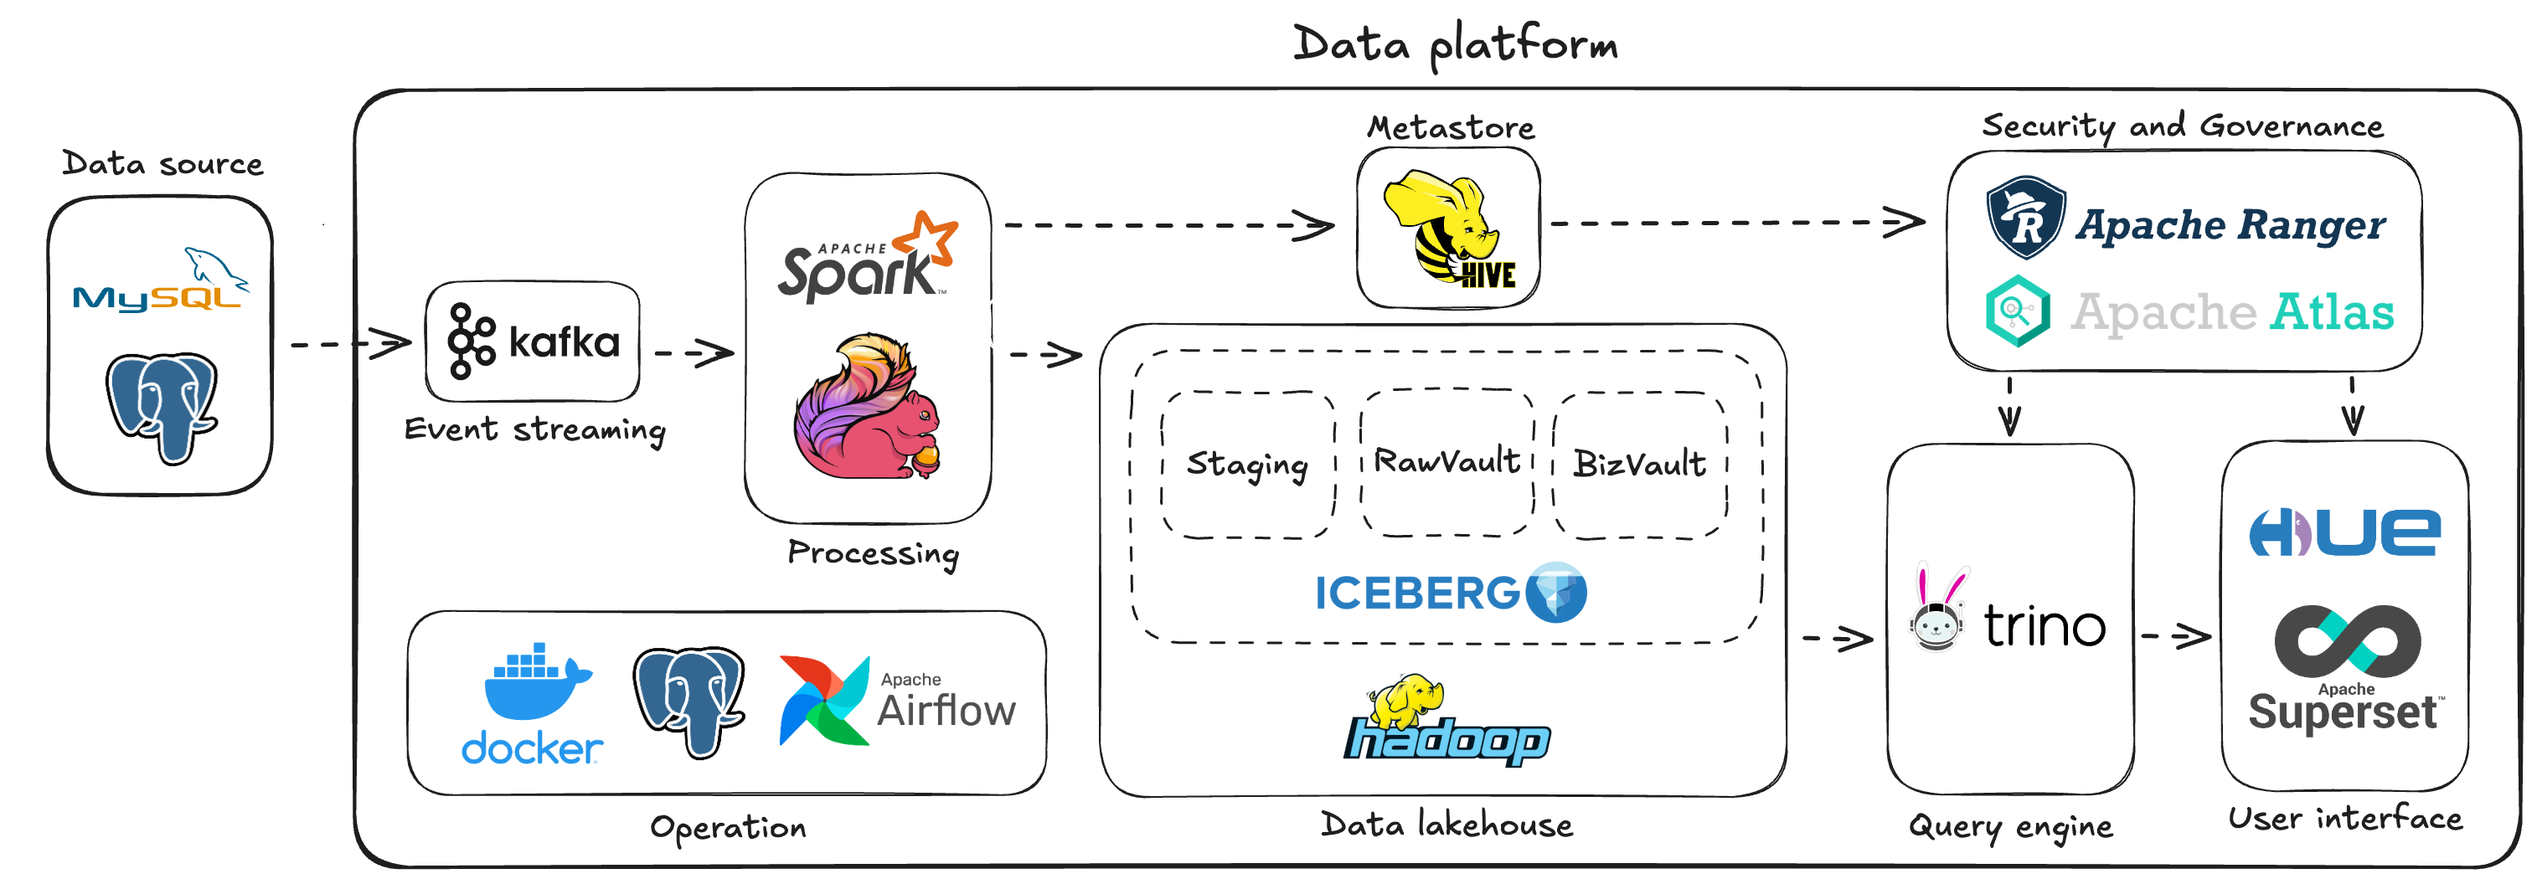
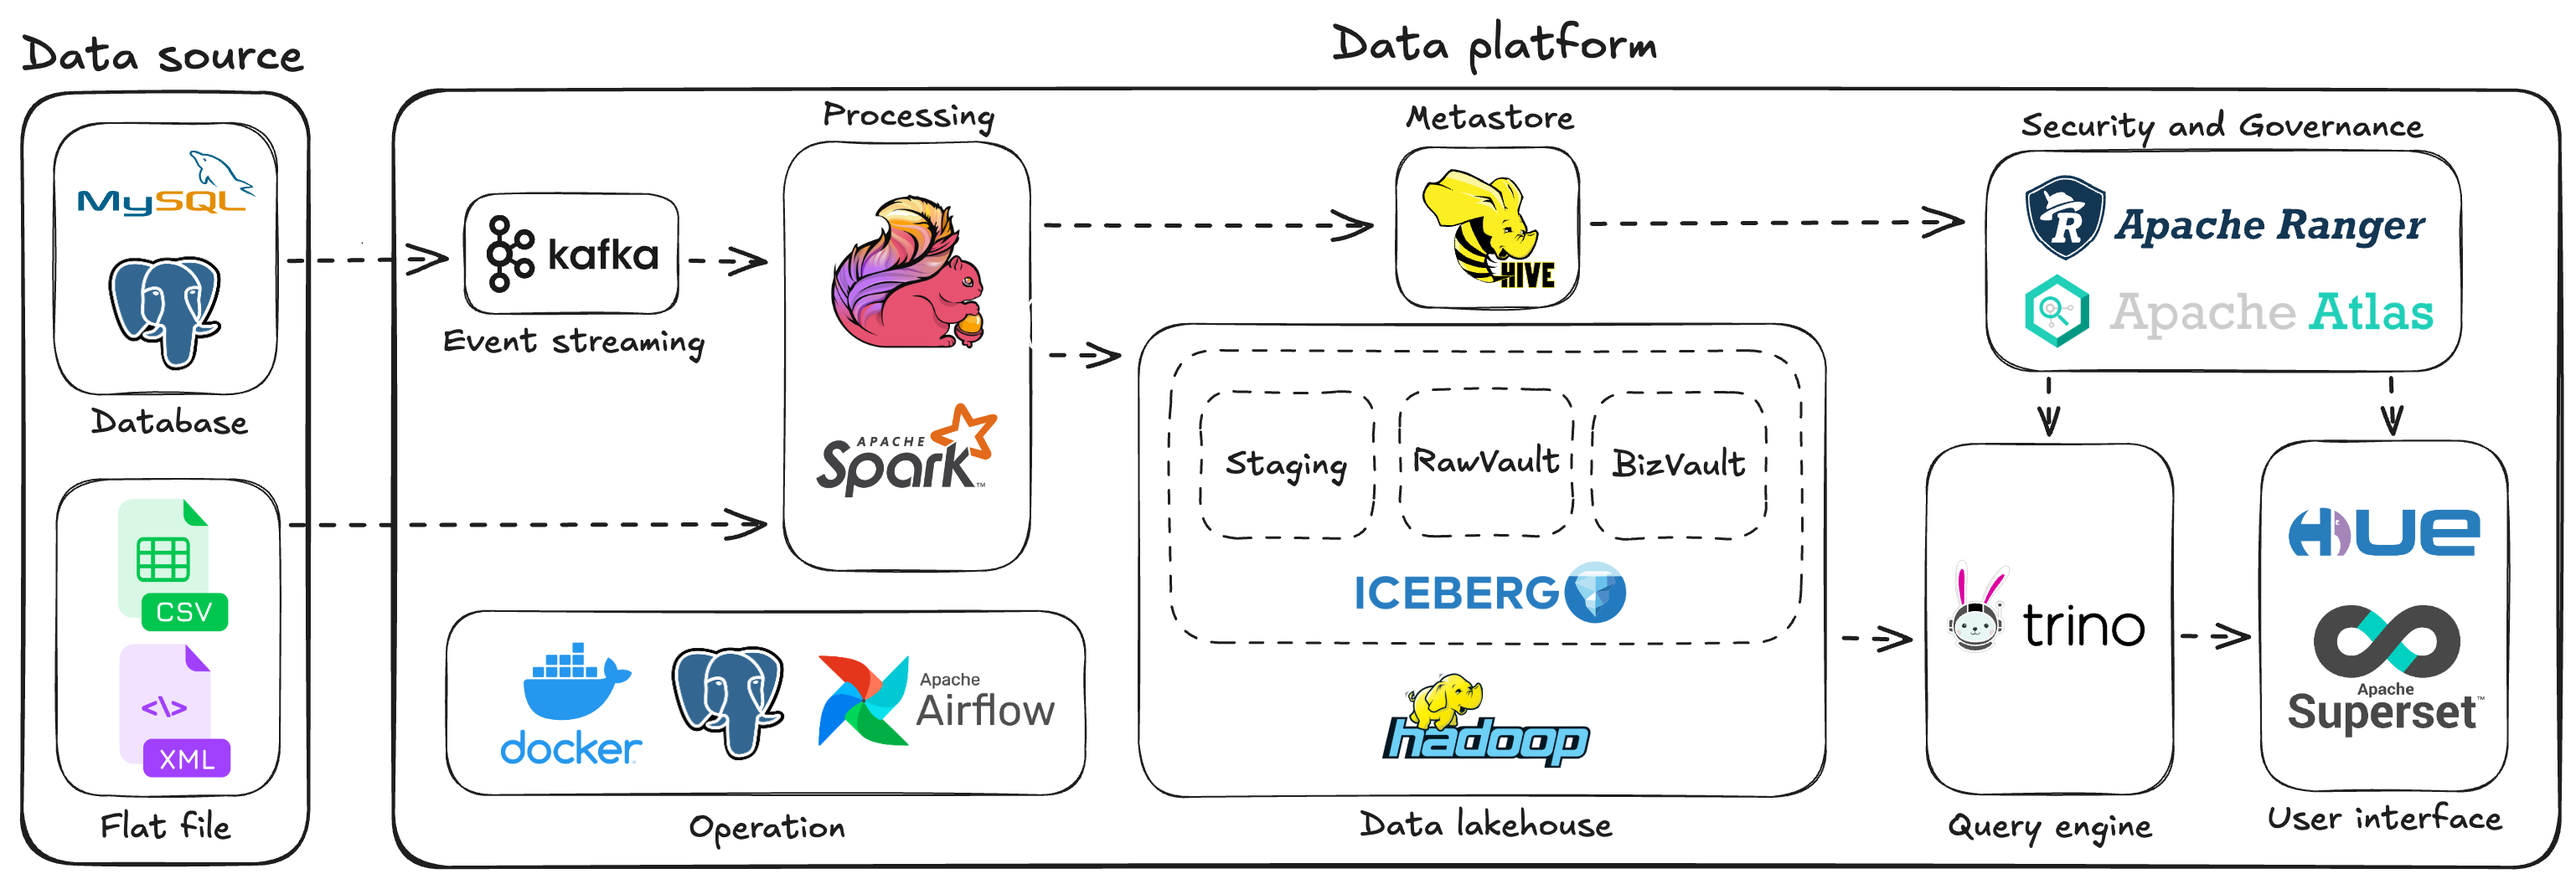
flat file

diff --git a/README.md b/README.md
@@ -24,17 +24,19 @@ These days, data becomes the DNA of every organization including both startups a
   <img src="https://github.com/nitsvutt/lakehouse-platform/blob/main/asset/lakehouse-platform.png" width="100%" title="architecture" alt="architecture">
 </p>
 
-- Data source: your application databases (Example: MySQL, PostgreSQL).
+- Data source: 
+    - Database: your application databases (Example: MySQL, PostgreSQL).
+    - Flat file: deverse file format from user (Example: CSV, XML).
 - Data platform:
     - Event streaming service: capture data in real-time from your sources (Example: Apache Kafka).
     - Processing service:
         - Streaming processing: consume and process data from Kafka topics (Example: Apache Spark, Apache Flink).
         - Batch processing: perform heavy ETL pipelines (Example: Apache Spark).
     - Data lakehouse:
-        - Storage: play as a central repository storing your data (Example: Apache Hadoop - HDFS).
+        - Storage: play as a central repository storing your data (Example: Apache Hadoop).
         - Table format: play as an OLAP layer supporting ACID (Example: Apache Iceberg).
     - Metastore: store table metadata supporting query engines quickly access this information (Example: Apache Hive).
-    - Security and Governance: ensure security and compliance requirements for the enterprise (Example: Apache Ranger and Apache Atlas).
+    - Security and Governance: ensure security and compliance requirements for the enterprise (Example: Apache Ranger, Apache Atlas).
     - Query engine: perform structure queries of users (Example: Trino).
     - User interface: serve users (Example: Hue, Apache Superset).
     - Operation:
